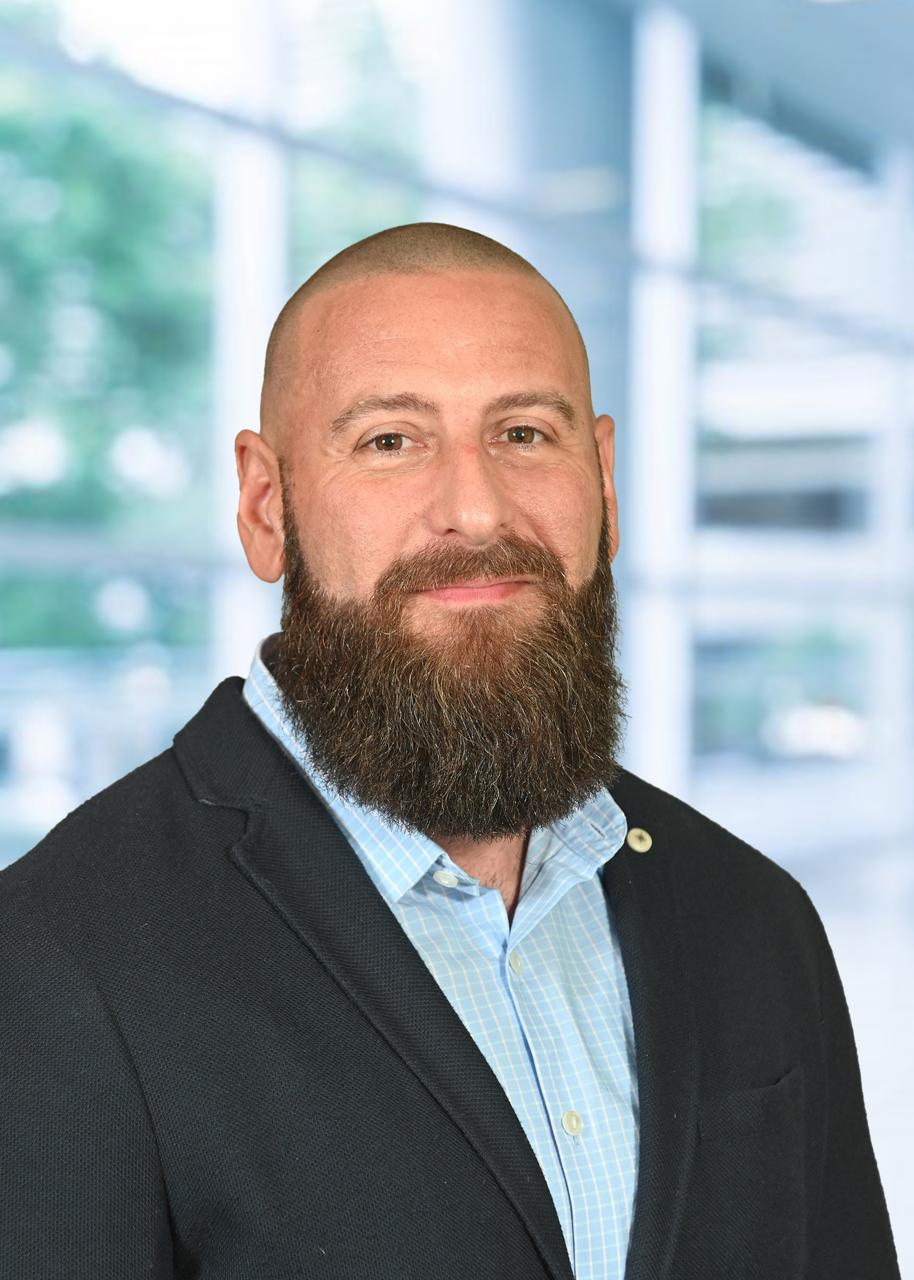
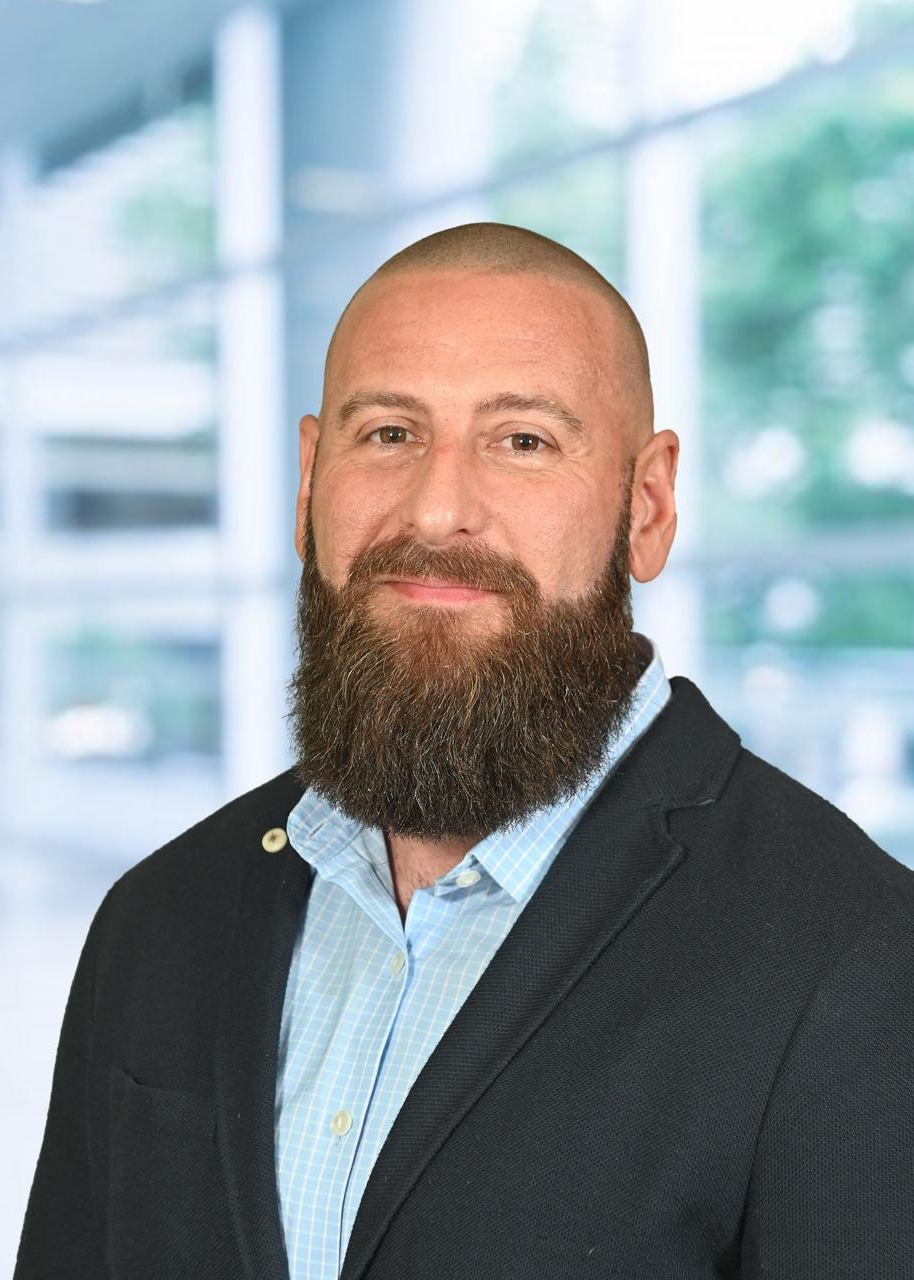
Fix oversized bio pop-up on mobile; mirror Anthony and Bobby headshots; rebrand Bobby's hard hat with SPCG wordmark
Claude-Session: https://claude.ai/code/session_01JihLPLkxUgkwC1Q8j47XN2

diff --git a/app/globals.css b/app/globals.css
@@ -1,3 +1,4 @@
+html{-webkit-text-size-adjust:100%;text-size-adjust:100%}
 
 body{margin:0;background:#ffffff}
 a{color:#0A0A0B;text-decoration:none}a:hover{color:#B5541C}
@@ -155,7 +156,7 @@ button:focus-visible,a:focus-visible{outline:2px solid #D9773A;outline-offset:3p
  .r-statsgrid>div{border-left:0!important}
  .r-statsgrid span[style*="38px"]{font-size:30px!important}
  .r-mq{font-size:42px!important}
- .r-commit p,.r-work p,.r-process p,.r-lead p{font-size:36px!important}
+ .r-commit p,.r-work p,.r-process p,.r-lead > div > div > p{font-size:36px!important}
  .r-crow{grid-template-columns:56px 1fr!important;gap:12px 18px!important}
  .r-crow>span:last-child{grid-column:2;padding:0!important}
  .r-crow>span:nth-child(2){font-size:21px!important;padding-top:12px!important}
@@ -279,9 +280,9 @@ a{text-decoration:none}
 .r-bio summary::after{content:" +"}
 .r-bio[open] summary::after{content:" −"}
 .r-bio[open] summary::before{content:"";position:fixed;inset:0;background:rgba(10,10,11,.55);z-index:900;cursor:pointer}
-.r-bio p{position:fixed;left:50%;top:50%;transform:translate(-50%,-50%);z-index:901;width:min(560px,calc(100vw - 32px));max-height:80vh;overflow:auto;box-sizing:border-box;margin:0;padding:32px 32px 28px;background:#fff;border-radius:22px;box-shadow:0 30px 80px rgba(0,0,0,.35);font-size:16px;line-height:1.7;color:#2B2D30}
-.r-bio p::before{content:attr(data-name);display:block;font-size:22px;font-weight:600;color:#0A0A0B;margin-bottom:2px}
-.r-bio p::after{content:"Tap anywhere outside to close";display:block;margin-top:18px;font-size:12px;color:#8C8F93}
+.r-bio p{position:fixed;left:50%;top:50%;transform:translate(-50%,-50%);z-index:901;width:min(560px,calc(100vw - 32px));max-height:75vh;overflow:auto;box-sizing:border-box;margin:0;padding:26px 28px 22px;background:#fff;border-radius:20px;box-shadow:0 30px 80px rgba(0,0,0,.35);font-size:14.5px;line-height:1.6;color:#2B2D30}
+.r-bio p::before{content:attr(data-name);display:block;font-size:18px;font-weight:600;color:#0A0A0B;margin-bottom:6px}
+.r-bio p::after{content:"Tap anywhere outside to close";display:block;margin-top:14px;font-size:11.5px;color:#8C8F93}
 .hb-s{position:absolute;inset:0;width:100%;height:100%;object-fit:cover;display:block;opacity:0;animation:hb 21s ease-in-out infinite}
 .hb-1{opacity:1}
 .hb-2{animation-delay:7s}.hb-3{animation-delay:14s}
@@ -343,3 +344,4 @@ a{text-decoration:none}
 .c-eeo{margin:20px 0 0 0;font-size:12.5px;line-height:1.6;color:#8C8F93}
 @media (max-width:900px){.c-where,.c-paths,.c-job-cols{grid-template-columns:1fr}.c-proc{grid-template-columns:1fr 1fr}.c-job-sum{grid-template-columns:minmax(0,1fr) 40px}.c-job-meta,.c-job-type{grid-column:1}.c-job-open{grid-row:1/span 3;grid-column:2}}
 @media (max-width:640px){.c-proc{grid-template-columns:1fr}.c-job-foot .v-btn-dark{margin-left:0;width:100%;justify-content:center}}
+@media (max-width:640px){.r-bio p{font-size:13.5px;line-height:1.55;padding:20px 20px 16px;border-radius:16px;width:calc(100vw - 40px)}.r-bio p::before{font-size:16px}.r-bio p::after{margin-top:12px;font-size:11px}}
